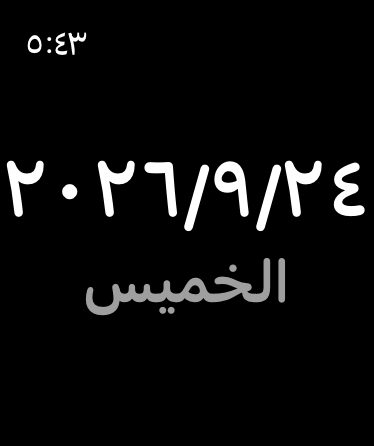
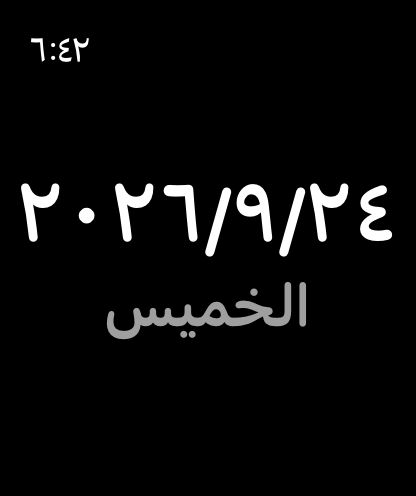
[Screenshots] Update screenshots to use the 46mm Watch
This is the requirement for App Store screenshots

diff --git a/Screenshots/README.md b/Screenshots/README.md
@@ -1,7 +1,7 @@
 ## Screenshots
 
 Screenshots from
-Apple Watch Series 11 - 42mm
+Apple Watch Series 11 - 46mm
 on watchOS 26.5
 
 | Locale | app | Count Up | Modular Compact | X-Large | Utility |

diff --git a/Screenshots/en-GB/README.md b/Screenshots/en-GB/README.md
@@ -1,7 +1,7 @@
 ## English, United Kingdom
 
 Screenshots from
-Apple Watch Series 11 - 42mm
+Apple Watch Series 11 - 46mm
 on watchOS 26.5
 
 ![app](0_app.png)

diff --git a/Screenshots/en-US/README.md b/Screenshots/en-US/README.md
@@ -1,7 +1,7 @@
 ## English, United States
 
 Screenshots from
-Apple Watch Series 11 - 42mm
+Apple Watch Series 11 - 46mm
 on watchOS 26.5
 
 ![app](0_app.png)

diff --git a/Screenshots/de-DE/README.md b/Screenshots/de-DE/README.md
@@ -1,7 +1,7 @@
 ## German, Germany
 
 Screenshots from
-Apple Watch Series 11 - 42mm
+Apple Watch Series 11 - 46mm
 on watchOS 26.5
 
 ![app](0_app.png)

diff --git a/Screenshots/fr-FR/README.md b/Screenshots/fr-FR/README.md
@@ -1,7 +1,7 @@
 ## French, France
 
 Screenshots from
-Apple Watch Series 11 - 42mm
+Apple Watch Series 11 - 46mm
 on watchOS 26.5
 
 ![app](0_app.png)

diff --git a/Screenshots/ar-EG/README.md b/Screenshots/ar-EG/README.md
@@ -1,7 +1,7 @@
 ## Arabic, Egypt
 
 Screenshots from
-Apple Watch Series 11 - 42mm
+Apple Watch Series 11 - 46mm
 on watchOS 26.5
 
 ![app](0_app.png)
